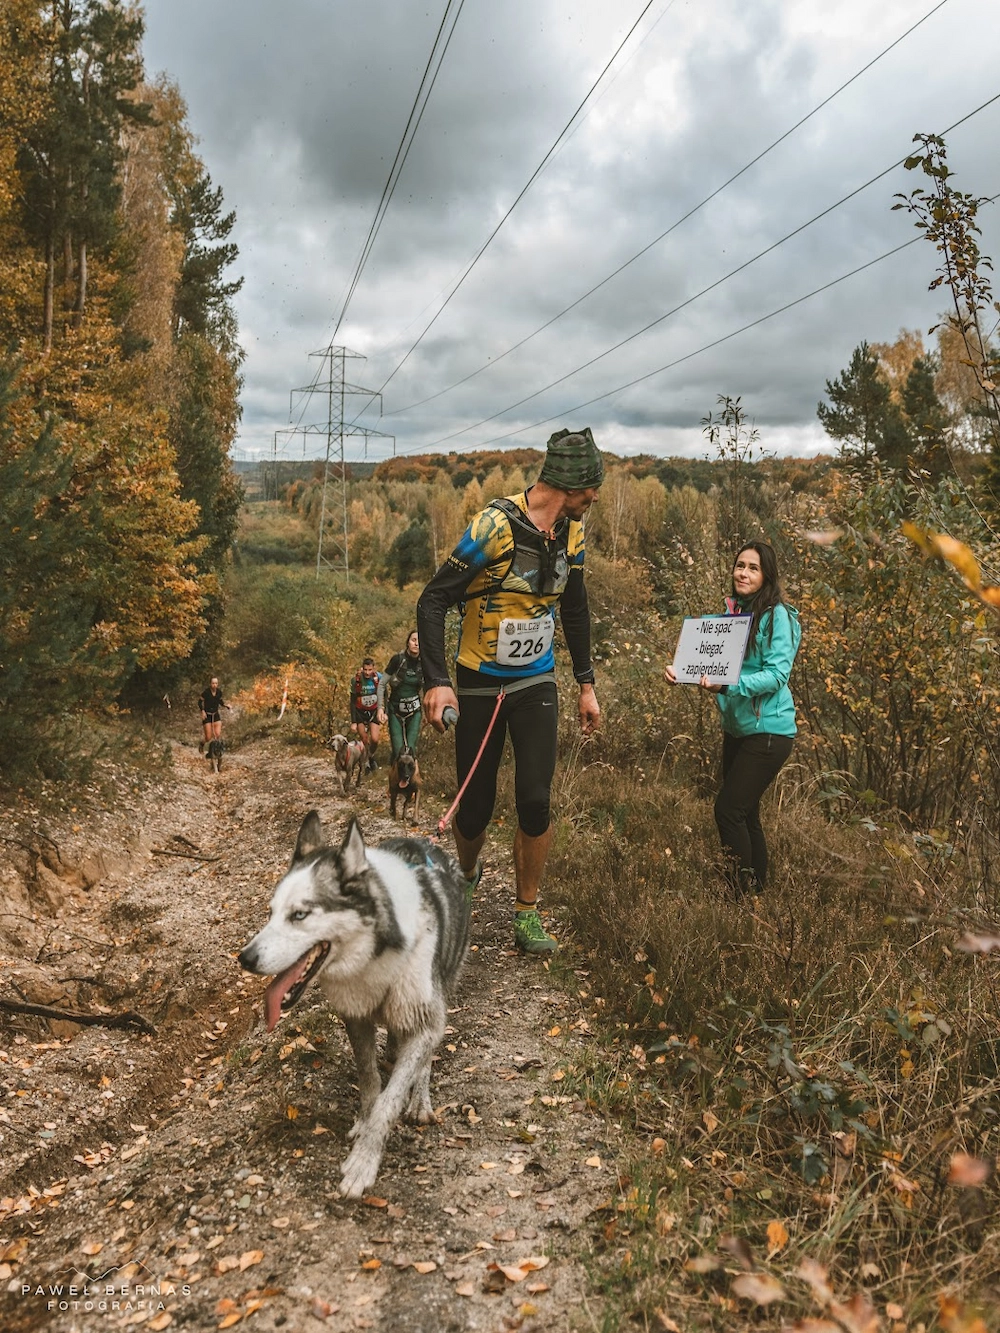
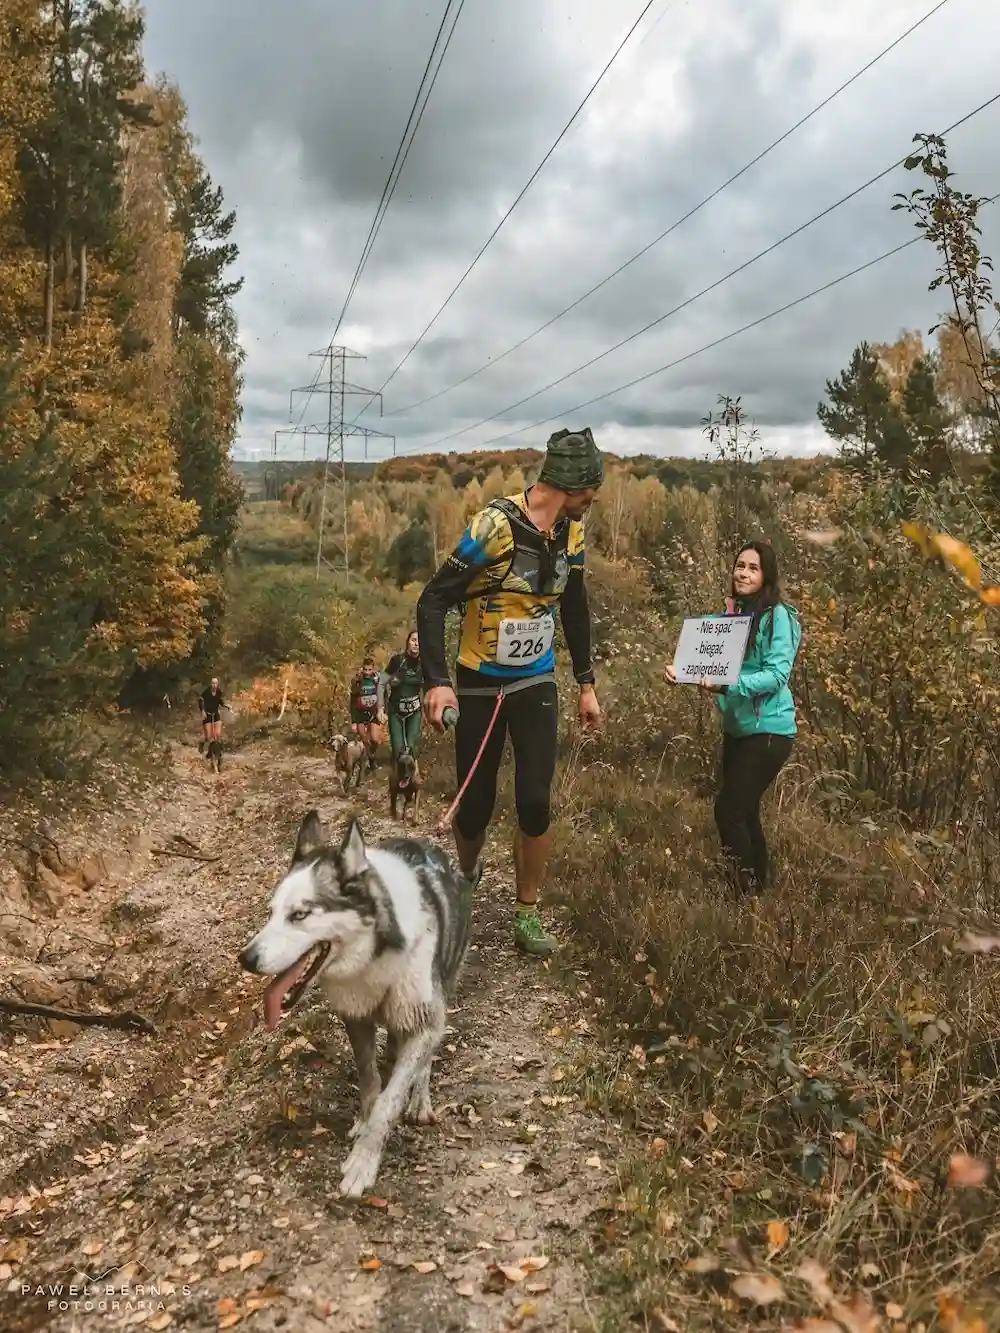
chore: decrease file sizes

diff --git a/src/data/marathon-photos.ts b/src/data/marathon-photos.ts
@@ -40,38 +40,38 @@ export const marathonPhotos2024 = [
 export const marathonPhotos2025 = [
 	{
 		src: "/halfmarathon/2025/1.webp",
-		alt: "Radośni Zatyrani",
+		alt: "Biegnący Zatyrani",
 	},
 	{
 		src: "/halfmarathon/2025/2.webp",
-		alt: "Radośa Orlica",
+		alt: "Skaczący biegacz",
 	},
 	{
 		src: "/halfmarathon/2025/3.webp",
-		alt: "Radosny biegacz z Chin",
+		alt: "Biegacz czytający tabliczkę",
 	},
 	{
 		src: "/halfmarathon/2025/4.webp",
-		alt: "Radosny biegacz z psem",
-	},
-	{
-		src: "/halfmarathon/2025/5.webp",
 		alt: "Biegacze idą łeb w łeb",
 	},
 	{
+		src: "/halfmarathon/2025/5.webp",
+		alt: "Biegaczka z uśmiechem",
+	},
+	{
 		src: "/halfmarathon/2025/6.webp",
-		alt: "Przyczajona Zatyrana z słuchawkami",
+		alt: "Radosna biegaczka",
 	},
 	{
 		src: "/halfmarathon/2025/7.webp",
-		alt: "Pijany biegacz",
+		alt: "Biegacz z psem",
 	},
 	{
 		src: "/halfmarathon/2025/8.webp",
-		alt: "Biegaczka z psem",
+		alt: "Biegaczka bez psa",
 	},
 	{
 		src: "/halfmarathon/2025/9.webp",
-		alt: "Biegaczka bez psa",
+		alt: "Biegaczka z słuchawkami",
 	},
 ];
